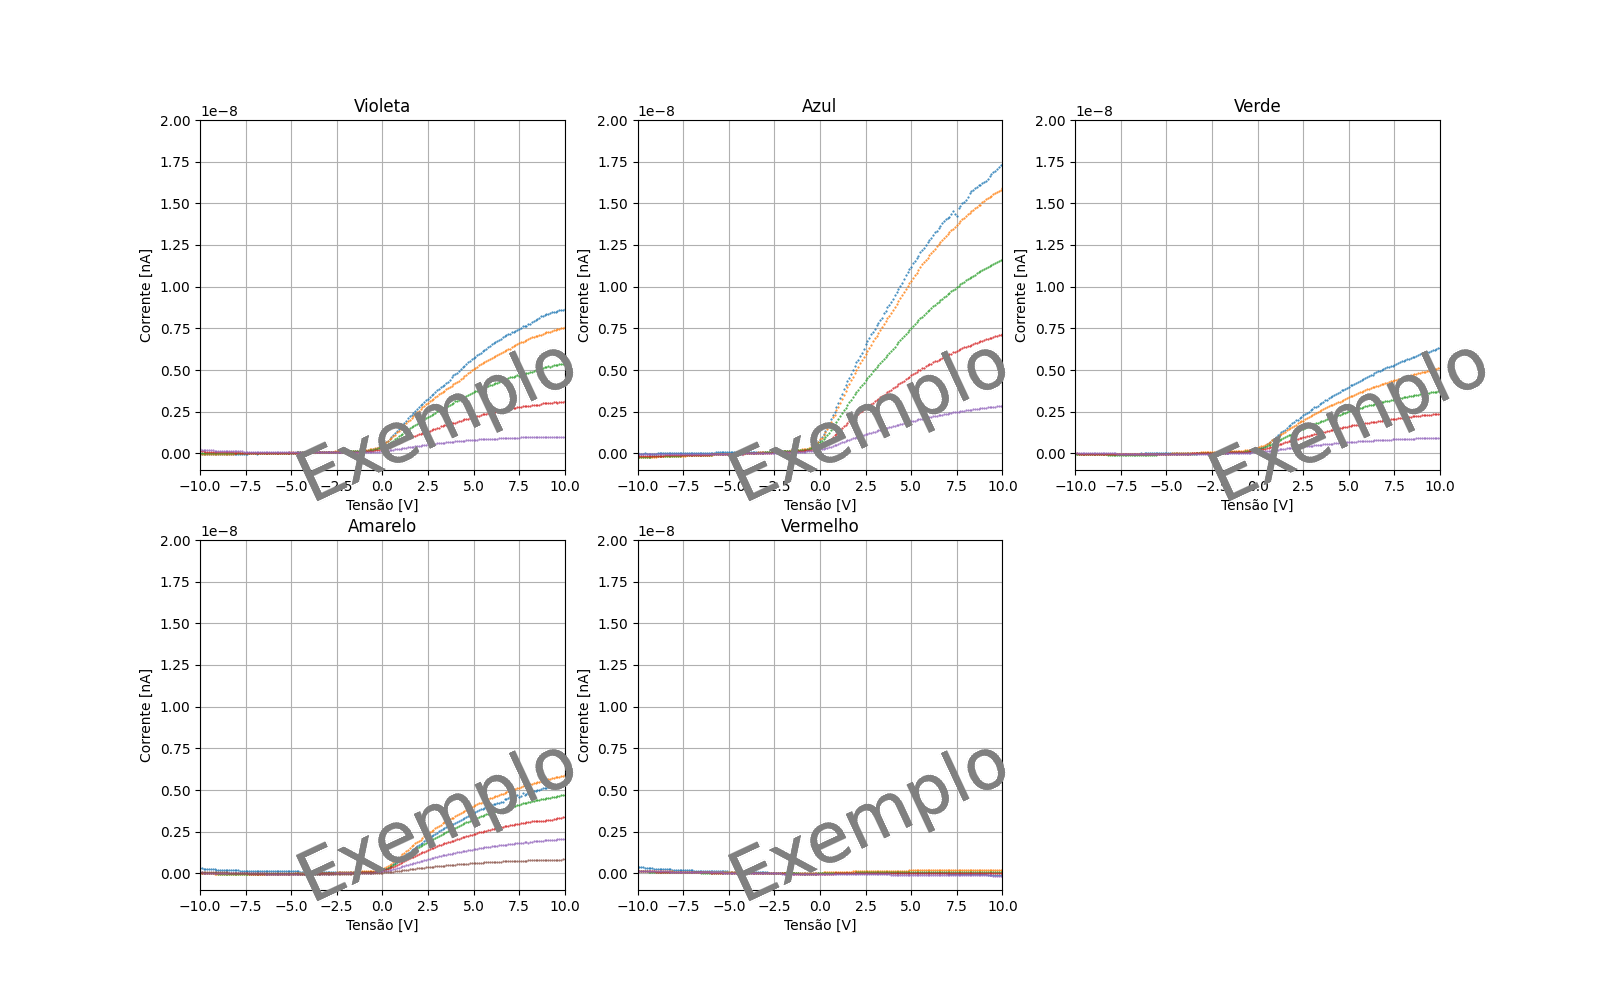
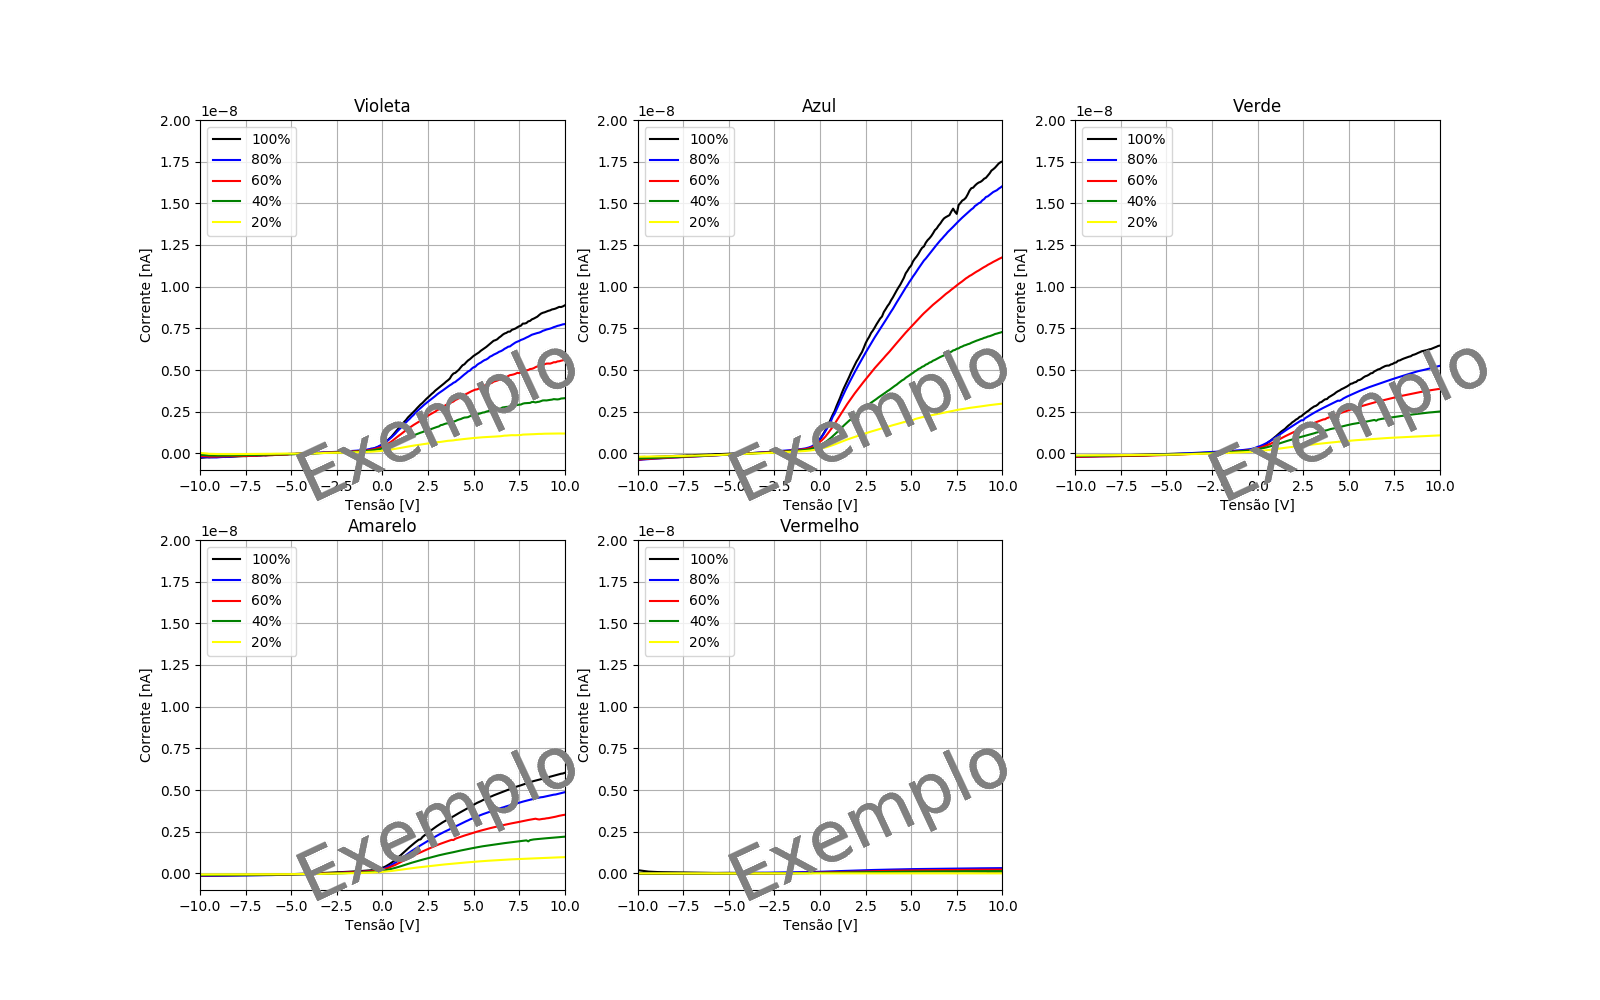
Version 4.1 - Add Method 1

diff --git a/medida.py b/medida.py
@@ -1,7 +1,7 @@
 ################################################################
 # Redução de Dados Física Experimental V - Efeito Fotoelétrico #
 # Matheus J. Castro                                            #
-# Version 3.1                                                  #
+# Version 4.1                                                  #
 # Last Modification: 6 de Março de 2020                        #
 ################################################################
 
@@ -56,7 +56,8 @@ def noise_removal(final_data, noise_bias, noise_lamp, bias=1, lamp=1):
     return final_data
 
 
-def plot_all(data, save=False):
+def plot_all(data, method_1, save=False, show_meth_1=False):
+    color = {100: "black", 80: "blue", 60: "red", 40: "green", 20: "yellow"}
     if (len(cores) % 2) == 0:
         col = len(cores) / 2
     else:
@@ -76,12 +77,16 @@ def plot_all(data, save=False):
         # plt.figtext(0.75, 0.5, "Exemplo", fontsize=50, color='gray', alpha=50, rotation=25)
         # plt.figtext(0.18, 0.1, "Exemplo", fontsize=50, color='gray', alpha=50, rotation=25)
         # plt.figtext(0.45, 0.1, "Exemplo", fontsize=50, color='gray', alpha=50, rotation=25)
+        legenda = []
         for k in intensidade:
             for i in dias:
                 if i in data and cores[j] in data[i] and k in data[i][cores[j]]:
                     x = np.array(data[i][cores[j]][k][0])
                     y = np.array(data[i][cores[j]][k][1])
-                    plt.plot(x, y, ".", markersize=1)
+                    legenda.append(plt.plot(x, y, "-", markersize=1, color=color[k], label="{}%".format(k)))
+                    if show_meth_1:
+                        plt.plot(method_1["{}_{}_{}".format(i, cores[j], k)], 0, ".", markersize=10, color=color[k])
+        plt.legend(loc="upper left")
         plt.grid()
 
     if save:
@@ -89,9 +94,8 @@ def plot_all(data, save=False):
     plt.show()
 
 
-def plot_same_intensity(data, k=100, save=False):
+def plot_same_intensity(data, method_1, k=100, save=False, show_meth_1=False):
     color = {cores[0]: "violet", cores[1]: "blue", cores[2]: "green", cores[3]: "yellow", cores[4]: "red"}
-    cor_cap = []
 
     plt.figure(figsize=(8, 4.5))
     plt.xlabel("Tensão [V]")
@@ -101,13 +105,14 @@ def plot_same_intensity(data, k=100, save=False):
     plt.ylim(-1 * pow(10, -9), 2 * pow(10, -8))
     # plt.figtext(0.15, 0.1, "Exemplo", fontsize=100, color='gray')
     for j in cores:
-        cor_cap.append(j.capitalize())
         for i in dias:
             if i in data and j in data[i] and k in data[i][j]:
                 x = np.array(data[i][j][k][0])
                 y = np.array(data[i][j][k][1])
-                plt.plot(x, y, ".", markersize=2, color=color[j])
-    plt.legend(cor_cap)
+                plt.plot(x, y, "-", markersize=1, color=color[j], label=j.capitalize())
+                if show_meth_1:
+                    plt.plot(method_1["{}_{}_{}".format(i, j, k)], 0, ".", markersize=10, color=color[j])
+    plt.legend()
     plt.grid()
 
     if save:
@@ -126,42 +131,34 @@ def save_new_data(data):
                                fmt="%s", delimiter=",")
 
 
-def method_1(data):
+def method_1(data, save=False):
     results = {}
     for i in dias:
         for j in cores:
             for k in intensidade:
                 if i in data and j in data[i] and k in data[i][j]:
-                    medida = data[i][j][k]
-                    smaller = -10
+                    medida = np.copy(data[i][j][k]).tolist()
                     for m in range(len(medida[1])):
                         current = medida[1][m]
-                        last = medida[1][m - 1]
+                        if current < 0:
+                            medida[1][m] = -medida[1][m]
+                    results["{}_{}_{}".format(i, j, k)] = medida[0][medida[1].index(min(medida[1]))]
 
-                        '''
-                        if current > 0:
-                            last = medida[1][m - 1]
-                            mod_last = -last
-                            if 0 < current < mod_last:
-                                smaller = current
-                                break
-                            elif 0 < mod_last < current:
-                                smaller = mod_last
-                                break
-                        '''
-                    print(smaller)
-                    #print(medida)
-                    results["{}_{}_{}".format(i, j, k)] = medida[0][medida[1].index(smaller)]
-            break
-    print(results)
+    if save:
+        if not os.path.exists("reduced_data"):
+            os.mkdir("reduced_data")
+        np.savetxt("reduced_data/1st_method_results.csv", list(results.items()), fmt="%s", delimiter=",")
+
+    return results
 
 
+results_1 = {}
 dt, noi_bias, noi_lamp = input_data()
-reduced = noise_removal(dt, noi_bias, noi_lamp, bias=1, lamp=1)  # troque de 1 para 0 caso não vá remover algum dos
+reduced = noise_removal(dt, noi_bias, noi_lamp, bias=0, lamp=0)  # troque de 1 para 0 caso não vá remover algum dos
                                                                  # tipos de ruido
 #save_new_data(reduced)  # descomente essa linha para salvar os dados no formato .csv
-#plot_all(reduced, save=False)  # descomente essa linha para plotar todos os dados
-#plot_same_intensity(reduced, save=False, k=100)  # descomente essa linha para plotar um grafico com todas as
+#results_1 = method_1(reduced, save=False)  # não está pronto
+#plot_all(reduced, results_1, save=False, show_meth_1=False)  # descomente essa linha para plotar todos os dados
+#plot_same_intensity(reduced, results_1, save=False, k=100, show_meth_1=False)  # descomente essa linha para plotar um grafico com todas as
                                                 # frequencias em uma determinada intensidade (k)
                                                 # caso deseje salvar qualquer plot, troque False para True
-# method_1(reduced)  # não está pronto

diff --git a/README.md b/README.md
@@ -11,7 +11,7 @@ O programa foi feito para funcionar com o arquivo original gerado pelo ProKeithl
 Todos os arquivos devem estar na mesma pasta em que o *medidas.py*.  
 
 ## Configuração
-**Para configurar o programa abra o arquivo "medidas.py" e modifique as seguintes linhas:**
+**Para configurar o programa abra o arquivo "*medidas.py*" e modifique as seguintes linhas:**
 	
 * Colocar os dias em que houve tomada de dados:
 		
@@ -28,7 +28,7 @@ Todos os arquivos devem estar na mesma pasta em que o *medidas.py*.
 	O ruído `bias` se refere a medida tomada com a fenda da fotocélula
 totalmente tampada. Já o `lamp` se refere a medida tomada com a lampada desligada.
 		
-### Salvar novos dados em *.csv*
+### Salvar dados sem ruído em *.csv*
 
 * Para salvar todos os dados sem o ruído no formato csv, descomente a linha:
 
@@ -42,17 +42,17 @@ totalmente tampada. Já o `lamp` se refere a medida tomada com a lampada desliga
 
 * Descomente essa linha para plotar todos os gráficos de frequência:
 
-		plot_all(reduced, save=False)
+		plot_all(reduced, results_1, save=False, show_meth_1=False)
 
-	Troque False para True caso queira salvar uma imagem png do gráfico.
+	Troque `False` para `True` em `save=False` caso queira salvar uma imagem png do gráfico.
 	
 	![](Plot_of_all_data_example.png)
 	
 * Descomente essa linha  plotar um gráfico de uma intensidade k (todas frequências):
 		
-		plot_same_intensity(reduced, save=False, k=100)
+		plot_same_intensity(reduced, results_1, save=False, k=100, show_meth_1=False)
 
-	Troque False para True caso queira salvar uma imagem png do gráfico.
+	Troque `False` para `True` em `save=False` caso queira salvar uma imagem png do gráfico.
 	
 	![](Plot_same_intensity_example.png)
 	
@@ -62,3 +62,13 @@ Para rodar o código é necessario ter *Python3*, *Numpy* e *Matplotlib* instala
 Em sistemas linux rode o comando no terminal para executar o programa:
 	
 	python3 medidas.py
+
+## Método 1
+O método 1 consiste em pegar o ponto mais próximo de 0 e atribuir esse valor a V0. Para obter o resultado do método 1 para todos os gráficos, descomente a linha:
+
+	results_1 = method_1(reduced, save=False)
+	
+Para salvar os resultados em um arquivo *.csv*, troque `False` para `True`. O programa cria a pasta `reduced_data` e salva o arquivo com nome "*1st_method_results.csv*" dentro dessa pasta.  
+Há a possibilidade de plotar os resultados nos gráficos, para isso troque o `False` para `True` em `show_meth_1=False` nas linhas que habilitam o plot dos gráficos, conforme pode ser observado na seção **Plotar e Salvar Gráficos**.
+
+> Para que o plot dos dados do método 1 funcione, é necessário que a linha que executa o método 1 esteja descomentada.
